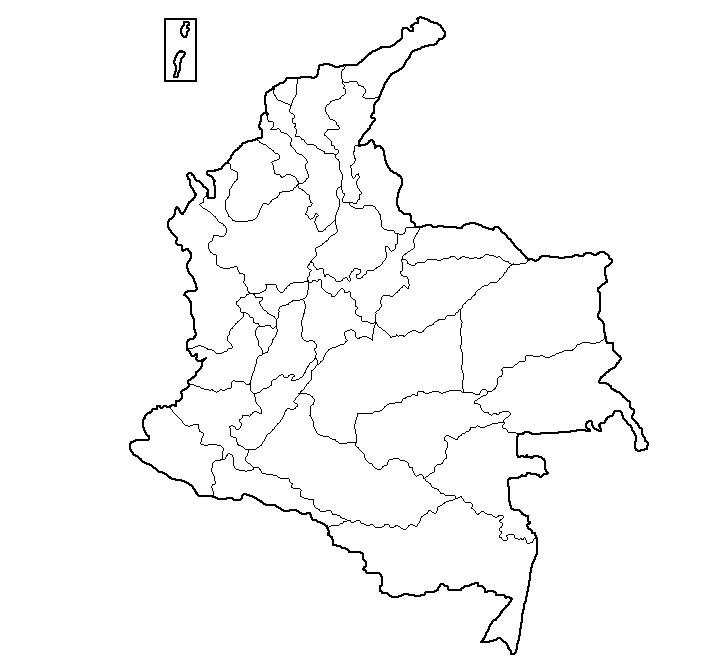
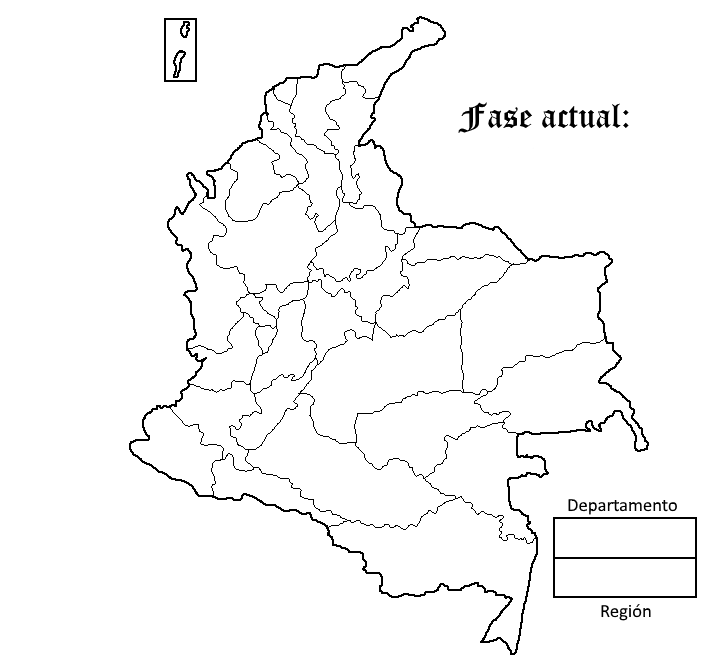
Addition of MouseLocationListener

diff --git a/src/Juego/Juego.java b/src/Juego/Juego.java
@@ -18,17 +18,23 @@ public class Juego {
     private ArrayList<Jugador> jugadores;
     private int numJugadores;
     private int jugadorActual;
+    private int fase;
 
     public Juego(int numJugadores) throws RiskException, FileNotFoundException {
         dptos = new ArrayList<>(32);
         adyacencia = new ArrayList<>(32);
         Scanner in = new Scanner(new File("res/dptos_adyacencia.txt"));
+        Scanner name = new Scanner(new File("res/dptos_nombres.txt"));
         String line;
+        String linetwo;
         for (int i = 0; i < 32; i++) {
             line = in.nextLine();
+            linetwo = name.nextLine();
             Scanner lineRead = new Scanner(line);
+            Scanner line2Read = new Scanner(linetwo);
             int pos = lineRead.nextInt() - 1;
-            if(pos != i){
+            int pos2 = line2Read.nextInt() - 1;
+            if(pos != i && pos2 != i){
                 throw new RiskException("La lista de adyacencia txt no está"
                         + " correctamente definida");
             }
@@ -38,7 +44,9 @@ public class Juego {
             }
             adyacencia.add(dptoAdyacentes);
 
-            dptos.add(new Departamento(i));
+            dptos.add(new Departamento(i, "asdf"));
+
+            System.out.println(line2Read.nextLine());
         }
 
         jugadores = new ArrayList<>(numJugadores);
@@ -52,23 +60,25 @@ public class Juego {
     
     public void comprobarAtaque(int atk, int target, int jugador)
             throws RiskException {
-        if(jugador == dptos.get(target).getIdJugador()){
-            throw new RiskException("El territorio ya le pertenece al jugador");
+        if(checkTerritorio(target, jugador)){
+            throw new RiskException(target + " ya le pertenece al jugador");
         }
-        if(jugador != dptos.get(atk).getIdJugador()){
-            throw new RiskException("El territorio no pertenece al jugador");
+        if(!checkTerritorio(atk, jugador)){
+            throw new RiskException(atk + " no pertenece al jugador");
         }
         if(dptos.get(atk).getNumTropas() <= 1){
-            throw new RiskException("El territorio no tiene tropas suficientes"
-                    + " para atacar");
+            throw new RiskException(atk + " no tiene tropas suficientes para continuar");
         }
         if(dptos.get(target).getNumTropas() <= 0){
-            throw new RiskException("Error, el territorio objetivo no tiene tropas");
+            throw new RiskException(target + " no tiene tropas para ser atacado");
         }
         if(!adyacencia.get(atk).contains(target)){
-            throw new RiskException("El territorio a atacar no es adyacente al"
-                    + " territorio del jugador");
+            throw new RiskException(target + " no es adyacente a" + atk);
         }
+    }
+
+    public boolean checkTerritorio(int dpto, int jugador){
+        return jugador == dptos.get(dpto).getIdJugador();
     }
     
     public void atacar(int atk, int target, int jugador, int dado1, int dado2){
@@ -90,6 +100,16 @@ public class Juego {
     public void moverTropas(int idA, int idB, int cantidad){
         addTropas(idB, cantidad);
         reduceTropas(idA, cantidad);
+    }
+
+    public int cambiarFase(){
+        fase++;
+        if(fase == 4) fase = 1;
+        return fase;
+    }
+
+    public void checkInicio(){
+
     }
 
     public void setTipoCartaJugador(int id, int carta){

diff --git a/src/Interfaz/Msgbox.java b/src/Interfaz/Msgbox.java
@@ -8,25 +8,31 @@ import javax.swing.*;
  * Created by Sebastian Patiño Barrientos.
  */
 public class Msgbox extends JPanel{
-    public JTextArea msgbox;
     public JScrollPane scroll;
+    public JTextPane logs;
+    public String text;
     public Msgbox() {
         setLayout(new GridBagLayout());
         setBackground(Color.white);
 
-        msgbox = new JTextArea(7, 27);
-        msgbox.setEditable(false);
-        scroll = new JScrollPane(msgbox);
+        text = "";
+        logs = new JTextPane();
+        logs.setEditable(false);
+        scroll = new JScrollPane(logs);
         scroll.setAutoscrolls(true);
+        scroll.setVerticalScrollBarPolicy(ScrollPaneConstants.VERTICAL_SCROLLBAR_ALWAYS);
         scroll.setHorizontalScrollBarPolicy(ScrollPaneConstants.HORIZONTAL_SCROLLBAR_NEVER);
+        scroll.setPreferredSize(new Dimension(310,128));
+        scroll.setMinimumSize(new Dimension(310, 128));
 
         GridBagConstraints c = new GridBagConstraints();
         c.fill = GridBagConstraints.BOTH;
         add(scroll, c);
+
     }
 
     public void print(String message){
-        msgbox.append(message + "\n");
-        msgbox.setCaretPosition(msgbox.getDocument().getLength());
+        text += "-" + message + "\n";
+        logs.setText(text);
     }
 }

diff --git a/src/Juego/Departamento.java b/src/Juego/Departamento.java
@@ -15,10 +15,11 @@ public class Departamento{
     private int numTropas;
     private int idJugador;
 
-    public Departamento(int id){
+    public Departamento(int id, String nombre){
         this.id = id;
+        this.nombre = nombre;
         numTropas = 0;
-        idJugador = 0;
+        idJugador = -1;
     }
 
     public int getId(){
@@ -43,6 +44,10 @@ public class Departamento{
 
     public void setIdJugador(int idJugador){
         this.idJugador = idJugador;
+    }
+
+    public String getNombre(){
+        return nombre;
     }
 
     @Override
